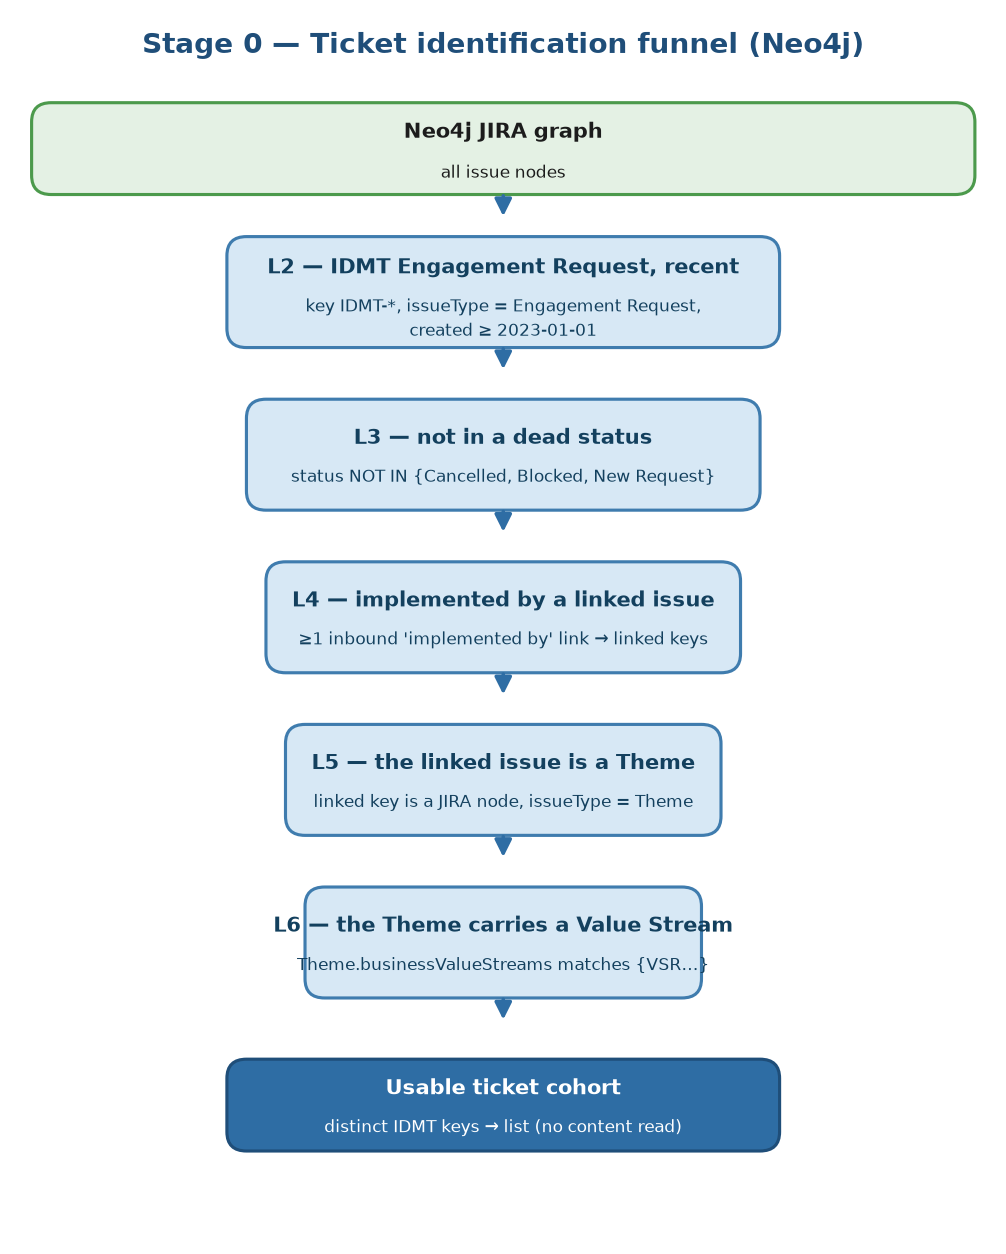
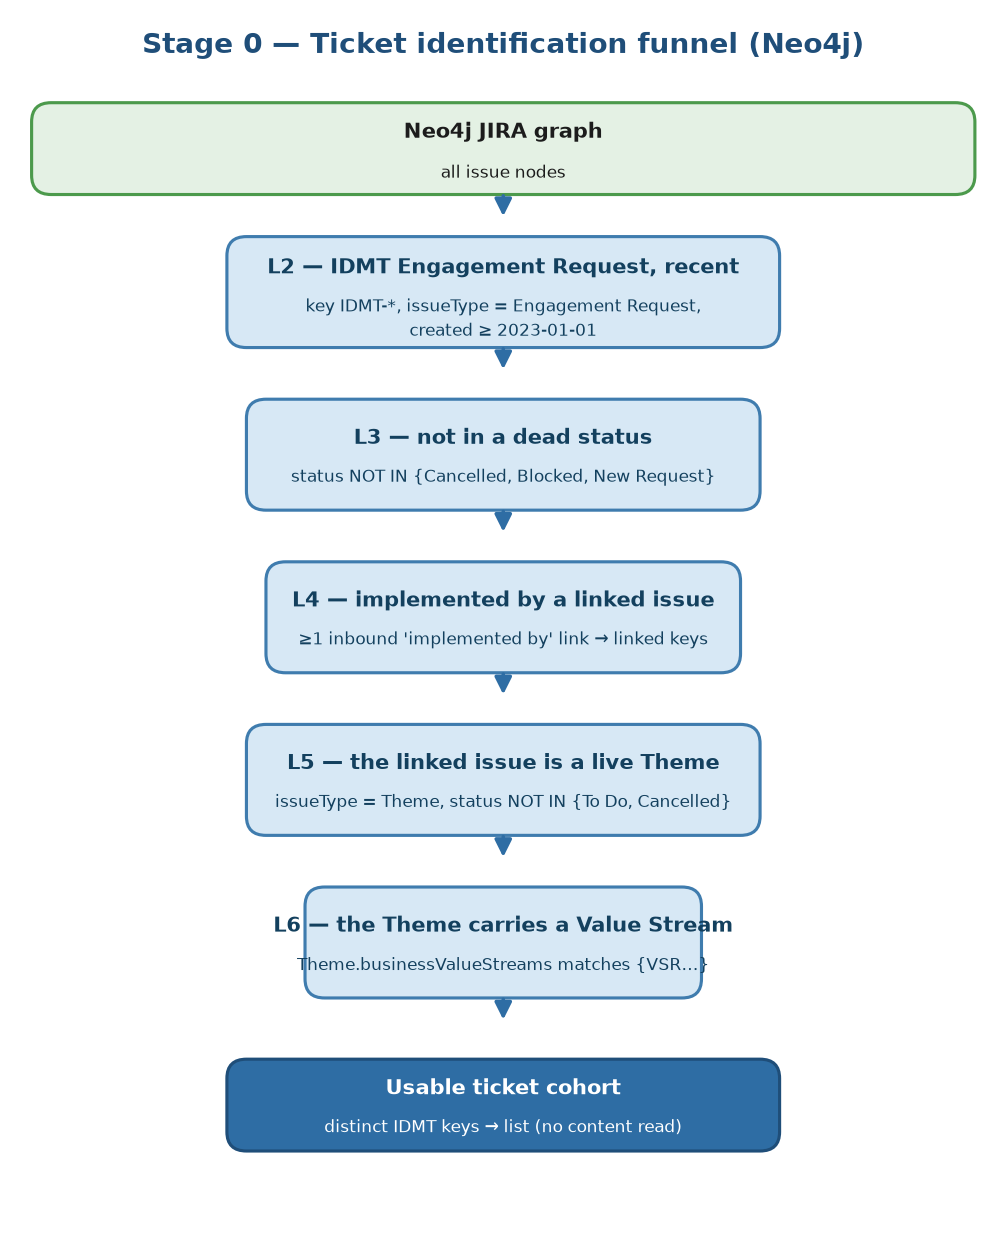
TDD: L5 Theme excludes To Do / Cancelled status (+ updated funnel figure)

Changed region(s): [[0.2157, 0.5598, 0.7704, 0.6842]]

diff --git a/docs/ingestion_tdd.md b/docs/ingestion_tdd.md
@@ -47,7 +47,7 @@ if **all** hold:
 | **L2 — is an IDMT Engagement Request, recent** | `key` starts with `IDMT-`, `issueType = "Engagement Request"`, `creationDateEpoch ≥ since` (default **2023-01-01**) |
 | **L3 — not in a dead status** | `status NOT IN {Cancelled, Blocked, New Request}` |
 | **L4 — is implemented by a linked issue** | the IDMT has ≥1 **inbound "implemented by"** link — i.e. a Theme *implements* it. (From the IDMT's side this relationship is inward; the same link is outward "implements" on the Theme. We read it from the IDMT, so it appears inward.) |
-| **L5 — the linked issue is a Theme** | the linked key resolves to a JIRA node with `issueType = "Theme"` |
+| **L5 — the linked issue is a live Theme** | the linked key resolves to a JIRA node with `issueType = "Theme"` **and** its status is not `To Do` or `Cancelled` |
 | **L6 — the Theme carries a Value Stream** | the Theme's `businessValueStreams` matches `…{VSR\d+}` (a valid Value Stream id is present) |
 
 The query returns the **distinct ER keys** that pass all five; that key set is the cohort the batch
@@ -66,8 +66,9 @@ The funnel is one Cypher query — no per-ticket round trips — and each level 
 2. **Pull each candidate's linked keys (L4).** From the IDMT node's inbound-link metadata, keep only the
    links of type *"implemented by"* and extract the linked issue keys. A candidate with no such link is
    dropped here — it has no implementing artifact, so no ground truth.
-3. **Resolve the links to Themes (L5).** Look up each linked key as a graph node and keep it only if its
-   issue type is *Theme*. (An "implemented by" link to a non-Theme issue does not qualify.)
+3. **Resolve the links to live Themes (L5).** Look up each linked key as a graph node and keep it only
+   if its issue type is *Theme* **and** its status is not *To Do* or *Cancelled* — a not-started or
+   dropped Theme is not a real label. (An "implemented by" link to a non-Theme issue does not qualify.)
 4. **Require a Value Stream on the Theme (L6).** Keep the candidate only if at least one of its Themes
    has a `businessValueStreams` value matching `{VSR…}` — i.e. the Theme actually carries a Value
    Stream. A Theme with a blank or malformed Value Stream does not qualify the ticket.